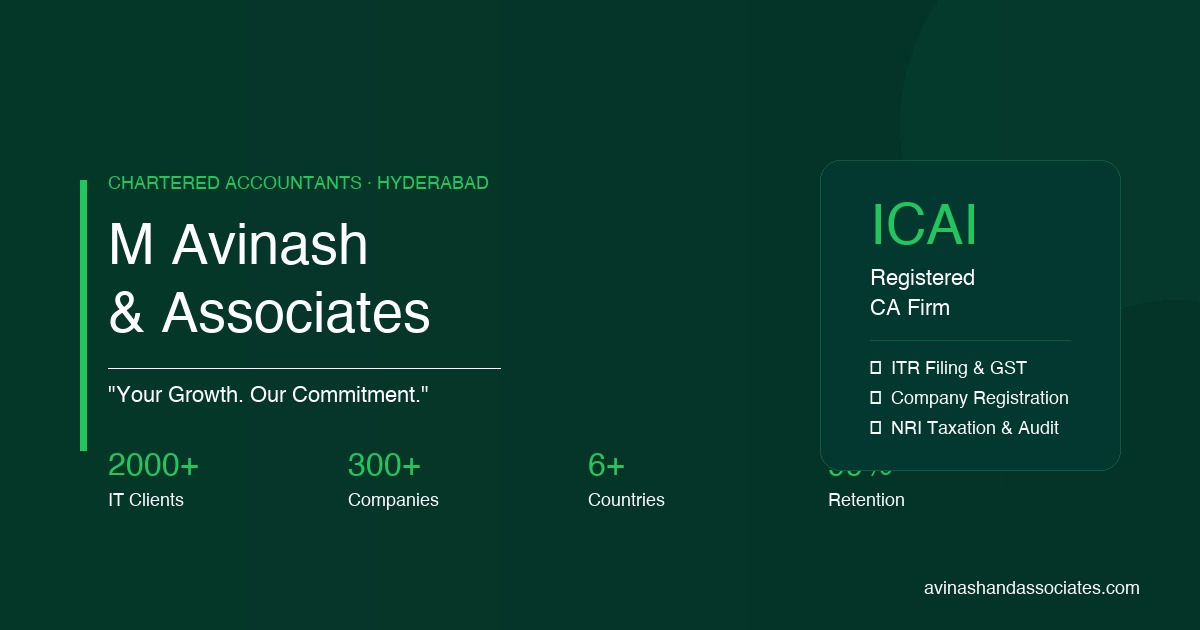
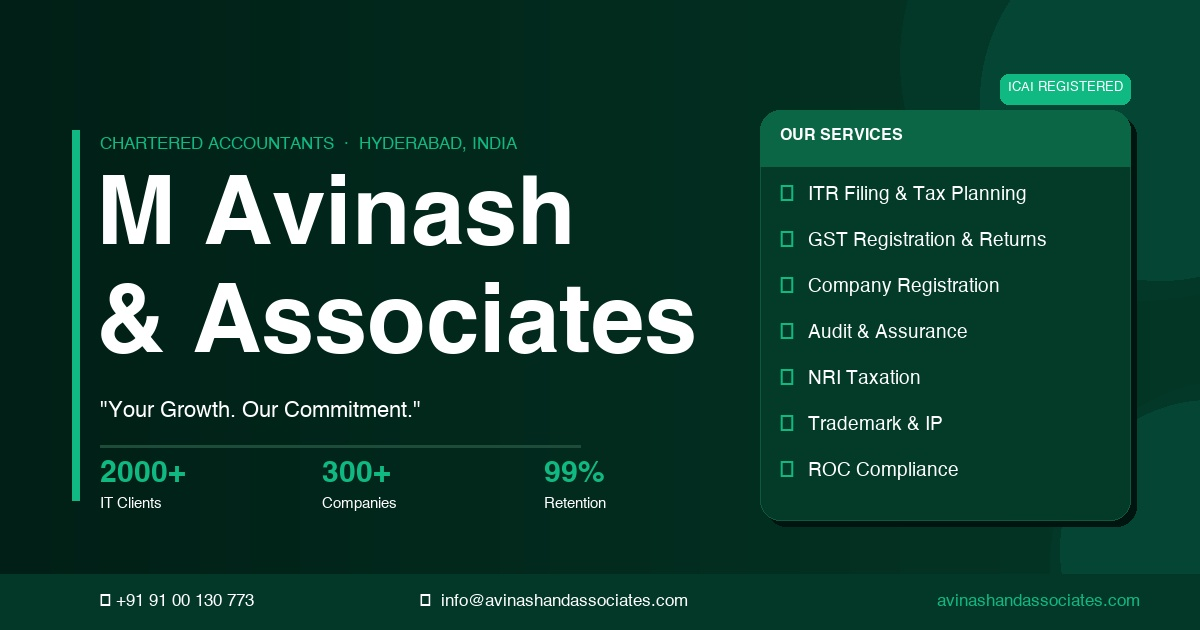
Redesign og:image for WhatsApp sharing — premium branded card
- Dark green gradient background with decorative circles
- Large firm name, tagline, and 4 stat chips
- Services card panel on the right
- Contact details and domain in footer strip
- ICAI Registered badge
- Sharper og:title and og:description for WhatsApp preview

diff --git a/index.html b/index.html
@@ -15,8 +15,8 @@
   <meta property="og:url" content="https://avinashandassociates.com">
   <meta property="og:site_name" content="M Avinash &amp; Associates">
   <meta property="og:locale" content="en_IN">
-  <meta property="og:title" content="M Avinash &amp; Associates — Trusted CA Firm in Hyderabad">
-  <meta property="og:description" content="ICAI-registered Chartered Accountants in Hyderabad. ITR Filing, GST, Company Registration, Audit, NRI Taxation &amp; Business Advisory. 4+ years of trusted service. Book a free consultation today.">
+  <meta property="og:title" content="M Avinash &amp; Associates | CA Firm in Hyderabad">
+  <meta property="og:description" content="Trusted Chartered Accountants in Hyderabad. ITR Filing, GST, Company Registration, Audit &amp; NRI Taxation. 2000+ clients · ICAI Registered · Free Consultation ✓">
   <meta property="og:image" content="https://avinashandassociates.com/images/og-image.jpg">
   <meta property="og:image:width" content="1200">
   <meta property="og:image:height" content="630">
